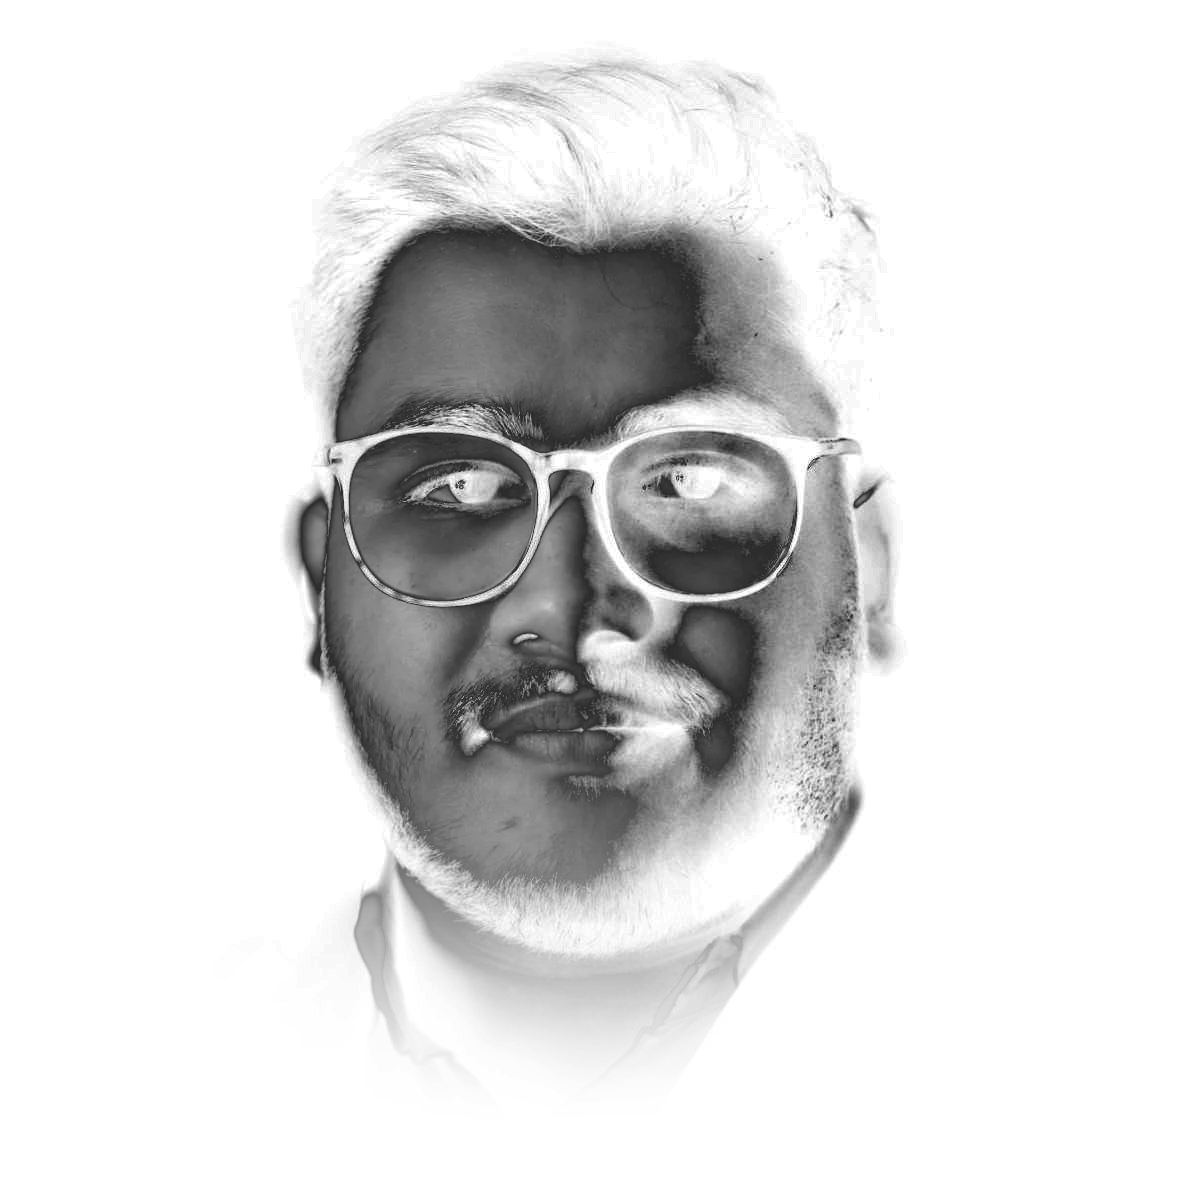
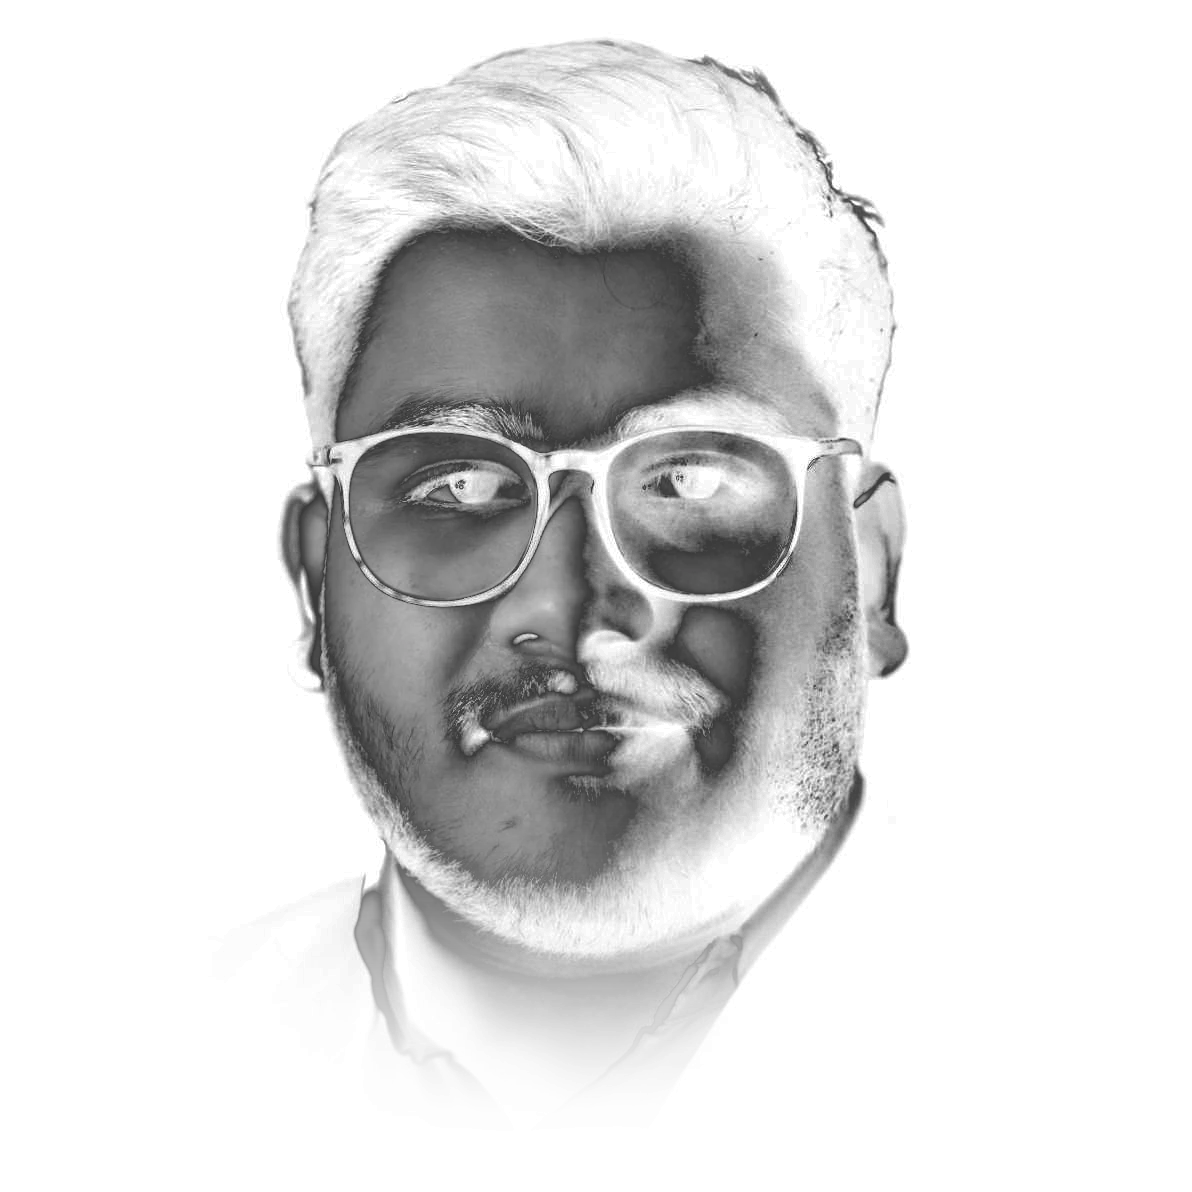
Large highlights with separate title band; portrait keeps its ears
- Highlighted work fills the width in three bands (heading, film, title), so
  titles can no longer overlap the picture; crossfade between films kept.
- Portrait: backdrop-spill removal now touches only near-white pixels at the
  outline, so ears and hair edges stay; sides fade over 16% instead of 26%.

diff --git a/src/sections/Highlights.css b/src/sections/Highlights.css
@@ -1,27 +1,49 @@
 .hl {
   position: relative;
   z-index: 3;
-  --W: min(84vw, calc((100svh - 410px) * 16 / 10));
 }
+/* three bands that cannot overlap: heading, the film, then its title */
 .hl__pin {
   position: sticky;
   top: 0;
   height: 100vh;
   height: 100svh;
   overflow: hidden;
+  display: grid;
+  grid-template-rows: auto minmax(0, 1fr) auto;
+  gap: clamp(10px, 2vh, 20px);
+  padding: clamp(84px, 11vh, 108px) clamp(16px, 3vw, 48px) clamp(18px, 3.4vh, 36px);
+}
+.hl__top {
+  display: flex;
+  align-items: baseline;
+  gap: 16px;
+  min-height: 44px;
+}
+.hl__head {
+  margin: 0;
+  font-family: var(--font-display);
+  font-weight: 500;
+  font-size: clamp(1.5rem, 2.6vw, 2.2rem);
+  letter-spacing: -0.02em;
+  line-height: 1;
+}
+.hl__count-all {
+  margin-left: auto;
+  font-family: var(--font-mono, monospace);
+  font-size: 0.78rem;
+  letter-spacing: 0.14em;
+  color: var(--gold);
+  font-variant-numeric: tabular-nums;
 }
 .hl__stage {
+  position: relative;
+  min-height: 0;
+}
+/* every film fills the band; they dissolve into each other */
+.hl__view {
   position: absolute;
   inset: 0;
-  display: grid;
-  place-items: center;
-  padding: clamp(190px, 26vh, 250px) 0 clamp(150px, 20vh, 190px);
-}
-/* every film occupies the same spot; they dissolve into each other */
-.hl__view {
-  position: relative;
-  width: var(--W);
-  aspect-ratio: 16 / 10;
 }
 .hl__screen {
   position: absolute;
@@ -54,6 +76,7 @@
   overflow: hidden;
 }
 .hl__poster {
+  object-position: 50% 40%;
   position: absolute;
   inset: 0;
   width: 100%;
@@ -94,38 +117,19 @@
   color: var(--text-dim);
 }
 
-.hl__head {
-  position: absolute;
-  top: clamp(84px, 11vh, 120px);
-  left: 0;
-  right: 0;
-  margin: 0;
-  display: flex;
-  flex-direction: column;
-  align-items: center;
-  gap: 10px;
-  text-align: center;
-  font-family: var(--font-display);
-  font-weight: 500;
-  font-size: clamp(2rem, 4.6vw, 3.4rem);
-  letter-spacing: -0.02em;
-  z-index: 5;
-  pointer-events: none;
-}
 
 /* title and actions: plain 2D over the scene, under the facing film */
 .hl__meta {
-  position: absolute;
+  position: relative;
   z-index: 5;
-  left: clamp(16px, 5vw, 80px);
-  right: clamp(16px, 5vw, 80px);
-  bottom: clamp(24px, 5vh, 52px);
   display: flex;
   align-items: flex-end;
   justify-content: space-between;
-  gap: 24px;
+  gap: 16px 24px;
   flex-wrap: wrap;
+  min-height: clamp(96px, 15vh, 130px);
 }
+.hl__meta-in { min-width: 0; }
 .hl__tags {
   display: flex;
   flex-wrap: wrap;
@@ -146,8 +150,8 @@
   margin: 0;
   font-family: var(--font-display);
   font-weight: 500;
-  font-size: clamp(2.4rem, 5.6vw, 4.8rem);
-  line-height: 0.95;
+  font-size: clamp(2.2rem, 4.6vw, 4rem);
+  line-height: 0.98;
   letter-spacing: -0.035em;
   color: #fff;
 }
@@ -201,14 +205,11 @@
 .hl__dots button.is-on::after { background: var(--gold); }
 
 @media (max-width: 720px) {
-  .hl { --W: 92vw; }
-  .hl__meta { bottom: 96px; }
   .hl__frame { border-radius: 4px; }
 }
 @media (prefers-reduced-motion: reduce) {
-  .hl__pin { position: relative; height: auto; overflow: visible; padding: 120px 0 40px; }
-  .hl__stage { position: relative; inset: auto; padding: 0; }
-  .hl__view { aspect-ratio: auto; display: grid; gap: 16px; justify-items: center; }
-  .hl__screen { position: relative; inset: auto; width: var(--W); aspect-ratio: 16 / 10; opacity: 1 !important; }
-  .hl__head, .hl__meta { position: relative; top: auto; bottom: auto; }
+  .hl__pin { position: relative; height: auto; overflow: visible; display: block; padding: 120px clamp(16px, 3vw, 48px) 40px; }
+  .hl__stage { position: relative; }
+  .hl__view { position: relative; display: grid; gap: 16px; }
+  .hl__screen { position: relative; inset: auto; aspect-ratio: 16 / 9; opacity: 1 !important; }
 }

diff --git a/src/sections/Highlights.jsx b/src/sections/Highlights.jsx
@@ -143,8 +143,6 @@ export default function Highlights({ projects, onOpenProject }) {
   })
   useEffect(() => () => clearTimeout(timer.current), [])
 
-  const headO = useTransform(p, [0, 0.05], [1, 0])
-  const headY = useTransform(p, [0, 0.05], [0, -40])
 
   const jump = (i) => {
     const el = ref.current
@@ -180,10 +178,11 @@ export default function Highlights({ projects, onOpenProject }) {
   return (
     <section className="hl" id="highlights" ref={ref} style={reduced ? undefined : { height: `${(n * 1.05 + 1) * 100}vh` }}>
       <div className="hl__pin">
-        <motion.h2 className="hl__head" style={reduced ? undefined : { opacity: headO, y: headY }}>
+        <header className="hl__top">
           <span className="slate">Featured</span>
-          Highlighted work
-        </motion.h2>
+          <h2 className="hl__head">Highlighted work</h2>
+          <span className="hl__count-all" aria-hidden="true">{String(active + 1).padStart(2, '0')} / {String(n).padStart(2, '0')}</span>
+        </header>
 
         <div className="hl__stage">
           <div className="hl__view">
@@ -204,7 +203,6 @@ export default function Highlights({ projects, onOpenProject }) {
               transition={{ duration: 0.32, ease: [0.23, 1, 0.32, 1] }}
             >
               <div className="hl__tags">
-                <span className="hl__count">{String(active + 1).padStart(2, '0')} / {String(n).padStart(2, '0')}</span>
                 {s.award && <span className="hl__award">Award-winning</span>}
                 {(s.tags || []).map((tg) => <span key={tg}>{tg}</span>)}
               </div>
